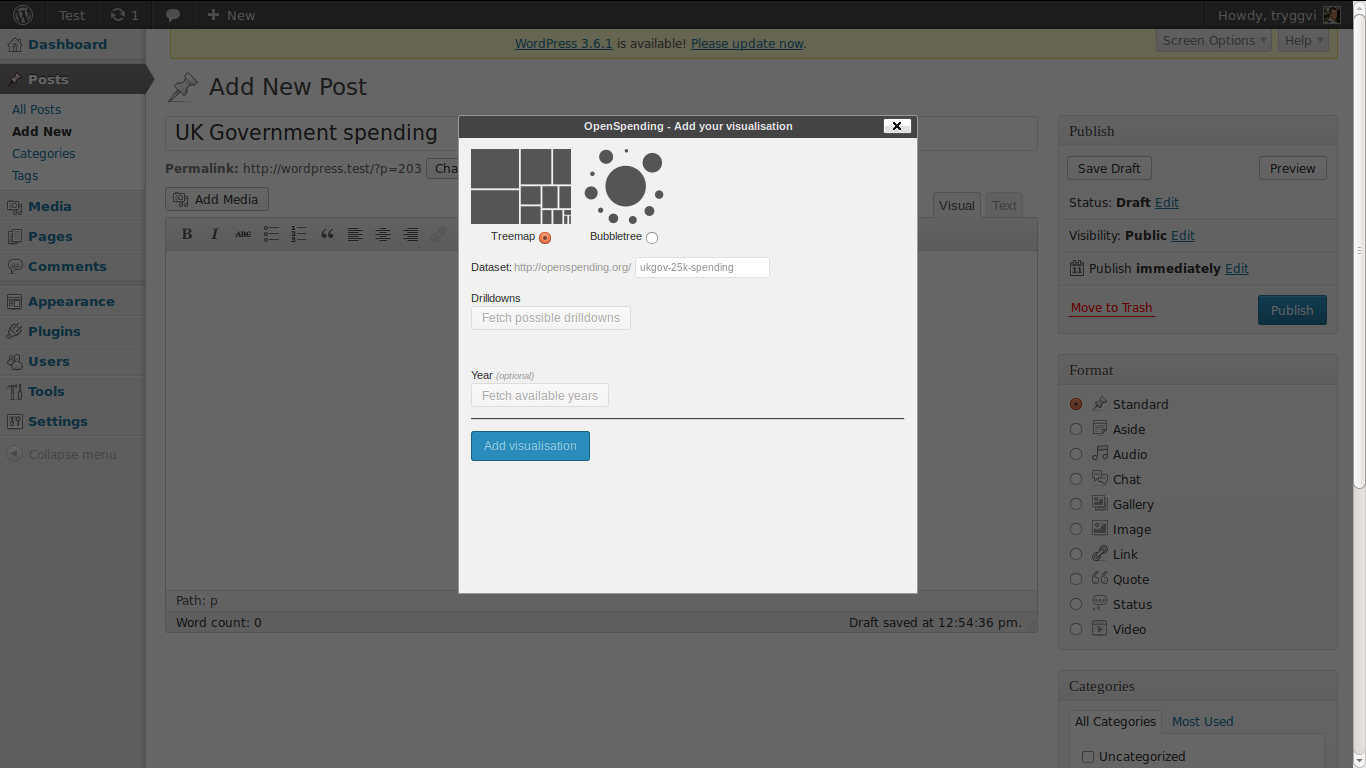
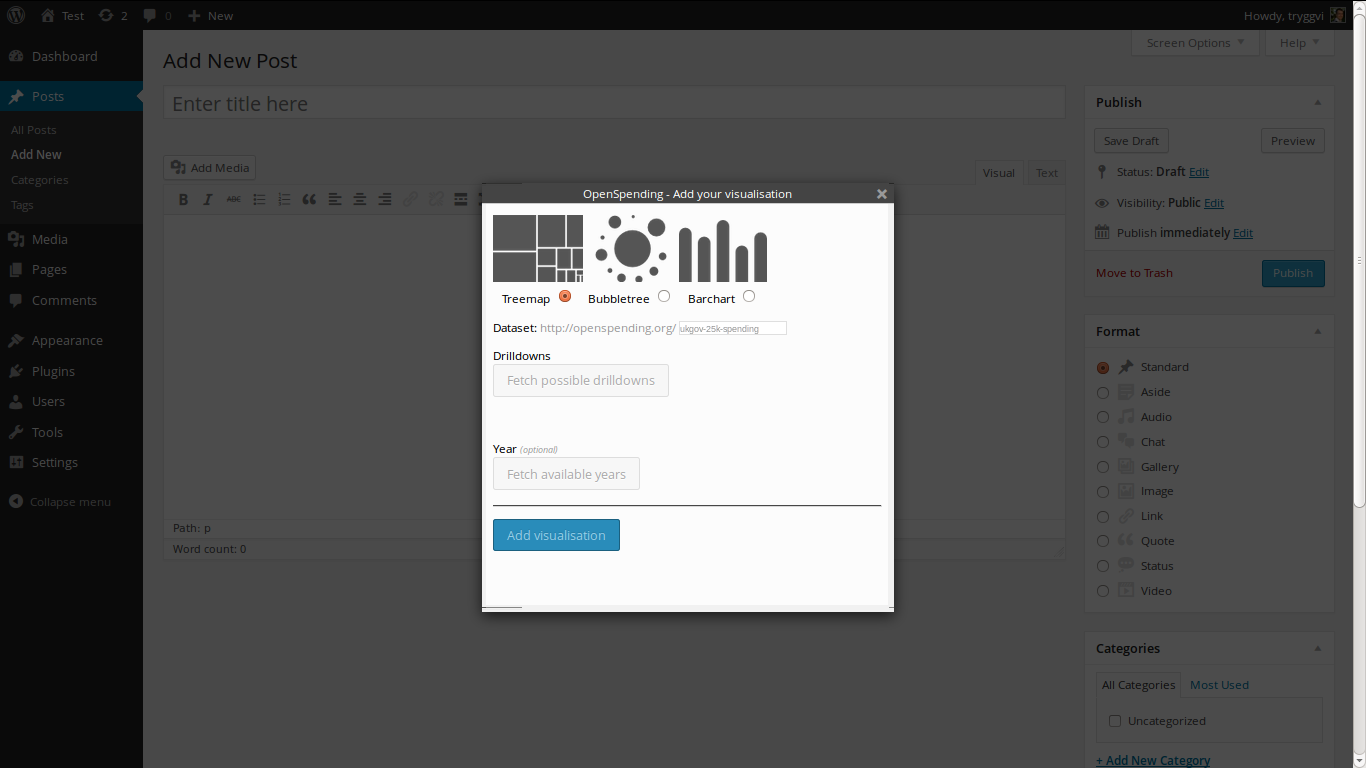
Bugfix release: 0.5.1 Fix a bug which can cause a wordpress render failure Update the documentation to include the newest bar chart feature

diff --git a/openspending/openspending.php b/openspending/openspending.php
@@ -1,10 +1,10 @@
 <?php
 /*
 Plugin Name: OpenSpending
-Plugin URI: http://tryggvib.github.io/openspending-wordpress-plugin/
+Plugin URI: http://github.com/openspending/openspending-wordpress-plugin/
 Description: Easily add <a href="http://openspending.org" title="OpenSpending - Mapping the Money">OpenSpending</a> visualisations to your blog or pages using the openspending shortcode. This means that you can easily map the money by loading a dataset into <a href="http://openspending.org" title="OpenSpending - Mapping the Money">OpenSpending</a> (if it isn't already there) and dropping a shortcode into your WordPress!
 Author: Open Knowledge Foundation
-Version: 0.5.0
+Version: 0.5.1
 Author URI: http://okfn.org/
 License: GPLv2 or later
 */
@@ -78,8 +78,8 @@ class OpenSpending {
                     " data-drilldowns=\"{$drilldowns}\"";
 
         // We try to do automatic inflation based on the previous year
-        $div_open .= " data-inflate=\"" . (date("Y")-1) ."\"" .
-        
+        $div_open .= " data-inflate=\"" . (date("Y")-1) ."\"";
+
         if ( $year != null)
             $div_open .= " data-year=\"{$year}\"";
 

diff --git a/docs/user-interface.md b/docs/user-interface.md
@@ -69,3 +69,21 @@ Then you like described in the treemap tutorial you choose the year you want to 
 Now you can publish your page or post and have a look. A word of advice. The bubbletree changes the url for the rendering of levels and this can have unintended consequences. For example if there are two or more bubbletrees in a blog post or on a page they won't work (not in the list of blogs either). So take care when you use bubbletrees.
 
 ![Beautifully rendered OpenSpending bubbletree](openspending-bosnia-bubbletree.png)
+
+## Bar chart (shorter walkthrough)
+
+Do you want time series? Choose the bar chart visualisations just like you choose the other visualisation types (described above).
+
+When you get to the drilldowns, choose the dimension that represents time (in this case *Año*):
+
+![Choose the time dimension](openspending-time-chosen.png)
+
+Don't choose a specific year, and voila! You will now have a time series (which are inflated automatically if OpenSpending has inflation data for the years in your dataset).
+
+![Time series](openspending-time-series.png)
+
+Here's a tip: If your dataset doesn't define exact dates, i.e. it just says *2012* and not *2012-04-22*, OpenSpending will internally refer to it as January 1st that year. The time series will show the full date. If you want to only show the year you can swap *year* instead of *time* in *\[opensending type=... drilldowns=...\]. That way you'll only show the year.
+
+You don't have to use the bar charts for time series, you can also use it to visualise any dimensions of your data with bars. For example, changing our time series to work on *cofog* dimensions we get a bar chart that reminds us of the bubble tree.
+
+![Cofog bar chart](openspending-cofog-barchart.png)
